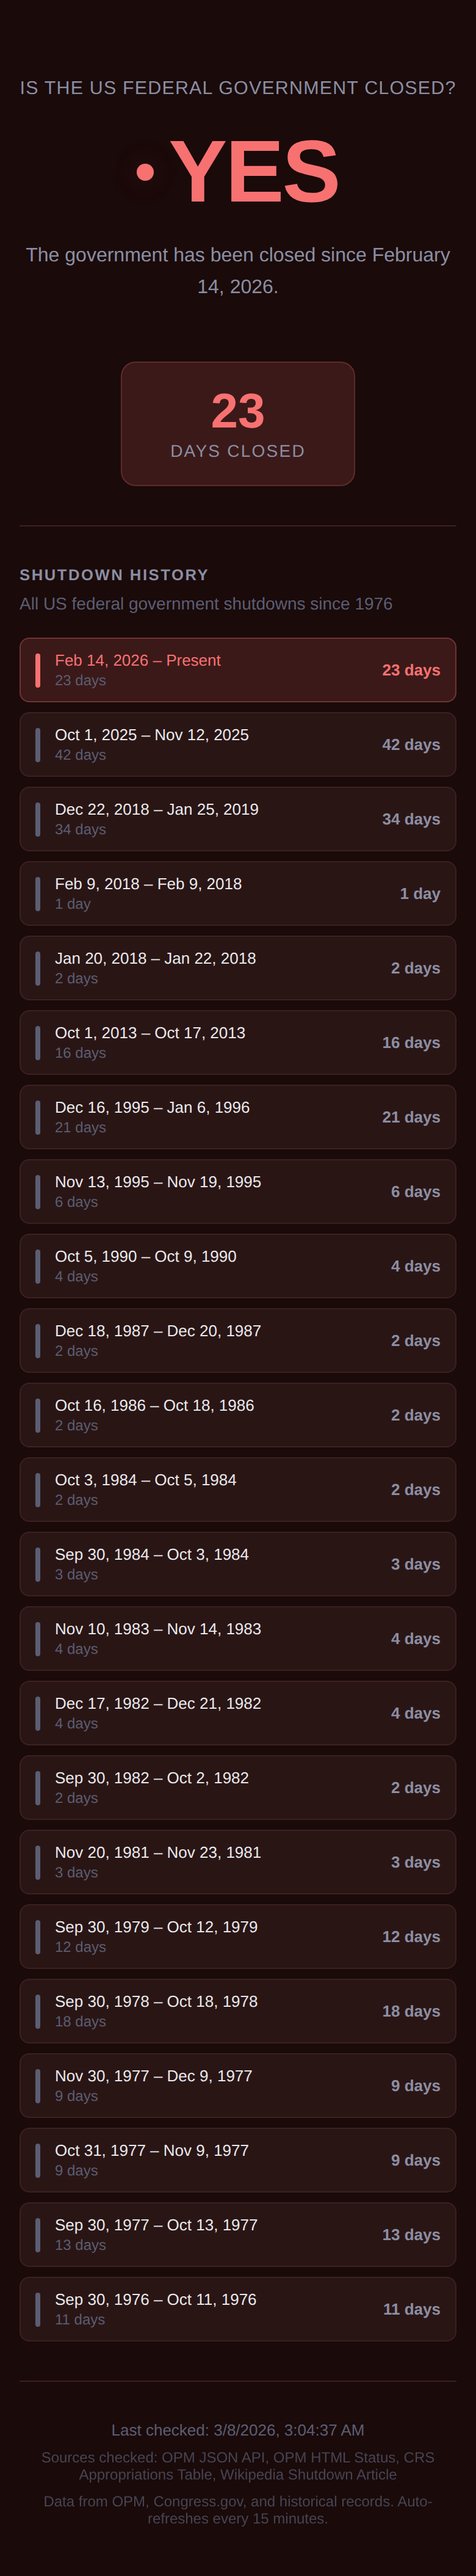
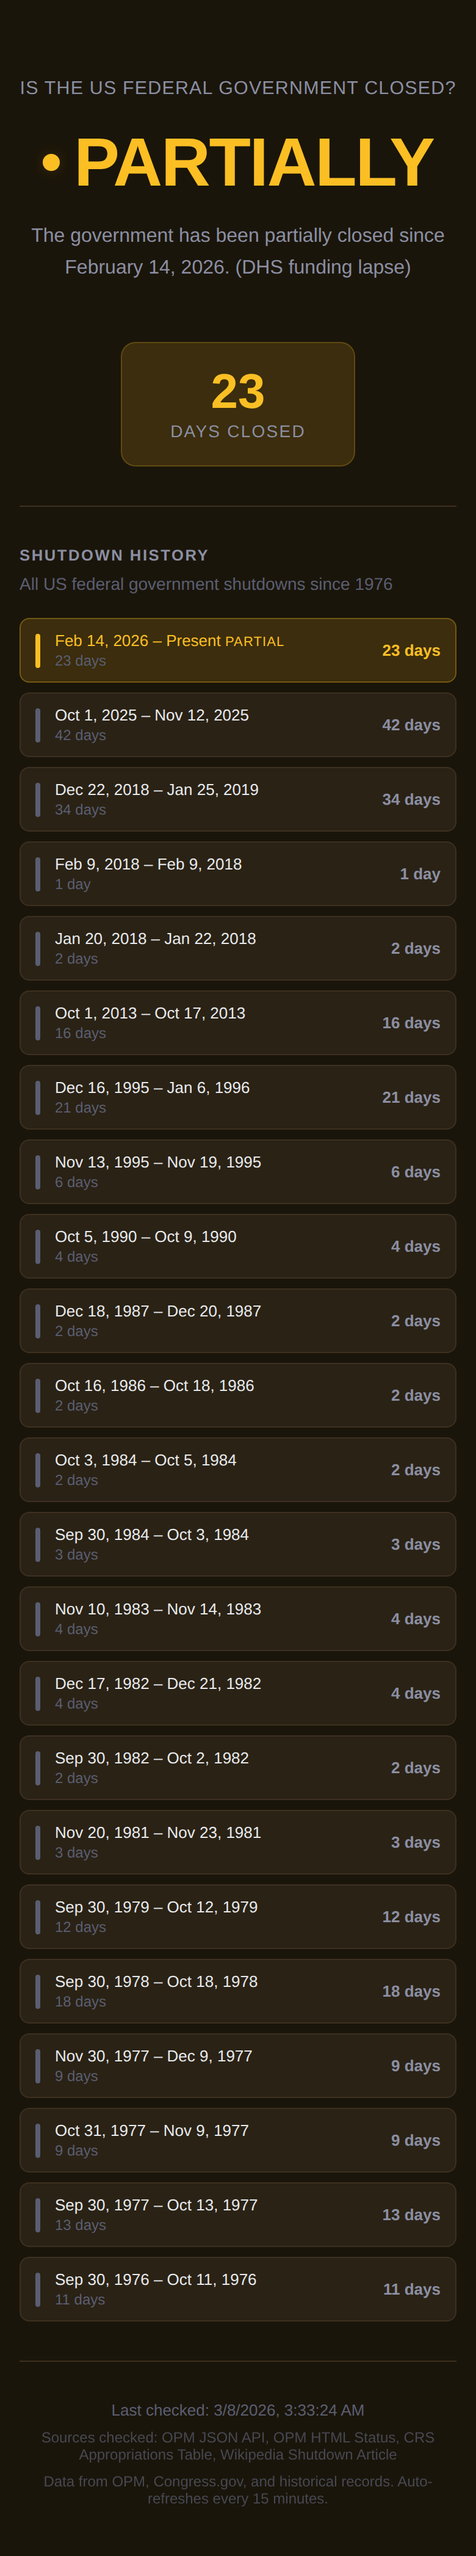
Add partial government shutdown display with amber theme
Introduce a third visual state for partial shutdowns: "Partially"
in amber, alongside the existing "Yes" (red) and "No" (green).

- Add type/detail fields to shutdown data model
- Add amber CSS palette, body.partial-shutdown theme, and responsive sizing
- Add type detection to CRS, Wikipedia, and OPM scrapers
- Propagate type through API response with full > partial precedence
- Update frontend to render partial state with amber dot, counter, and timeline
- Timeline entries show "PARTIAL" label for partial shutdowns

https://claude.ai/code/session_0172i3znrXNV1RgsEQVhjfL9

diff --git a/public/style.css b/public/style.css
@@ -17,6 +17,9 @@
   --red: #f87171;
   --red-glow: rgba(248, 113, 113, 0.15);
   --red-deep: #7f1d1d;
+  --amber: #fbbf24;
+  --amber-glow: rgba(251, 191, 36, 0.15);
+  --amber-deep: #78350f;
   --border: #2a2d3a;
   --radius: 12px;
   --radius-sm: 8px;
@@ -36,6 +39,14 @@ body.shutdown {
   --bg-card: #2a1515;
   --bg-card-hover: #351c1c;
   --border: #3d2020;
+  background: var(--bg);
+}
+
+body.partial-shutdown {
+  --bg: #1a150a;
+  --bg-card: #2a2215;
+  --bg-card-hover: #35291c;
+  --border: #3d3020;
   background: var(--bg);
 }
 
@@ -90,6 +101,12 @@ body.shutdown {
   animation: pulse-red 1.5s ease-in-out infinite;
 }
 
+.status-dot.partial {
+  background: var(--amber);
+  box-shadow: 0 0 12px var(--amber-glow), 0 0 24px var(--amber-glow);
+  animation: pulse-amber 2s ease-in-out infinite;
+}
+
 @keyframes pulse-green {
   0%, 100% { box-shadow: 0 0 12px var(--green-glow); }
   50% { box-shadow: 0 0 20px var(--green-glow), 0 0 40px var(--green-glow); }
@@ -98,6 +115,11 @@ body.shutdown {
 @keyframes pulse-red {
   0%, 100% { box-shadow: 0 0 12px var(--red-glow); }
   50% { box-shadow: 0 0 24px var(--red-glow), 0 0 48px var(--red-glow); }
+}
+
+@keyframes pulse-amber {
+  0%, 100% { box-shadow: 0 0 12px var(--amber-glow); }
+  50% { box-shadow: 0 0 20px var(--amber-glow), 0 0 40px var(--amber-glow); }
 }
 
 .answer {
@@ -121,6 +143,11 @@ body.shutdown {
 
 .answer.no {
   color: var(--green);
+}
+
+.answer.partial {
+  color: var(--amber);
+  font-size: 5rem;
 }
 
 .detail {
@@ -161,6 +188,15 @@ body.shutdown {
   color: var(--text-muted);
   text-transform: uppercase;
   letter-spacing: 0.08em;
+}
+
+body.partial-shutdown .counter-card {
+  background: var(--amber-glow);
+  border-color: rgba(251, 191, 36, 0.2);
+}
+
+body.partial-shutdown .counter-number {
+  color: var(--amber);
 }
 
 /* === Section Shared === */
@@ -257,6 +293,31 @@ body.shutdown {
   color: var(--red);
 }
 
+.timeline-item.partial.ongoing {
+  border-color: rgba(251, 191, 36, 0.3);
+  background: var(--amber-glow);
+}
+
+.timeline-item.partial .timeline-bar {
+  background: var(--amber);
+}
+
+.timeline-item.partial.ongoing .timeline-range {
+  color: var(--amber);
+}
+
+.timeline-item.partial.ongoing .timeline-days {
+  color: var(--amber);
+}
+
+.timeline-type {
+  font-size: 0.6875rem;
+  color: var(--amber);
+  font-weight: 500;
+  text-transform: uppercase;
+  letter-spacing: 0.05em;
+}
+
 /* === Footer === */
 .footer {
   padding: 2rem 0 1rem;
@@ -316,6 +377,10 @@ body.shutdown {
     font-size: 4.5rem;
   }
 
+  .answer.partial {
+    font-size: 3.5rem;
+  }
+
   .answer-row {
     gap: 0.75rem;
   }
@@ -333,10 +398,6 @@ body.shutdown {
     font-size: 2.5rem;
   }
 
-  .sources-grid {
-    grid-template-columns: 1fr;
-  }
-
   .timeline-item {
     padding: 0.625rem 0.75rem;
   }
@@ -349,6 +410,10 @@ body.shutdown {
 @media (max-width: 380px) {
   .answer {
     font-size: 3.5rem;
+  }
+
+  .answer.partial {
+    font-size: 2.5rem;
   }
 
   .question {

diff --git a/src/shutdowns.js b/src/shutdowns.js
@@ -1,7 +1,8 @@
 // Historical US federal government shutdowns
 // Source: Congressional Research Service reports
-// Each entry: { start: 'YYYY-MM-DD', end: 'YYYY-MM-DD' | null }
+// Each entry: { start: 'YYYY-MM-DD', end: 'YYYY-MM-DD' | null, type?: 'partial' | 'full' }
 // end = null means the shutdown is currently ongoing
+// type defaults to 'full' when omitted
 
 const SHUTDOWNS = [
   { start: '1976-09-30', end: '1976-10-11' },
@@ -26,7 +27,7 @@ const SHUTDOWNS = [
   { start: '2018-02-09', end: '2018-02-09' },
   { start: '2018-12-22', end: '2019-01-25' },
   { start: '2025-10-01', end: '2025-11-12' }, // 43-day shutdown, longest in modern history
-  { start: '2026-02-14', end: null },          // Partial shutdown (DHS funding lapse)
+  { start: '2026-02-14', end: null, type: 'partial', detail: 'DHS funding lapse' },
 ];
 
 function getShutdownStatus() {
@@ -38,10 +39,18 @@ function getShutdownStatus() {
   );
 
   if (ongoing) {
+    const type = ongoing.type || 'full';
+    const partial = type === 'partial';
+    const closedWord = partial ? 'partially closed' : 'closed';
+    const detail = ongoing.detail || null;
+    const detailSuffix = detail ? ` (${detail})` : '';
+
     return {
       isClosed: true,
+      type,
       since: ongoing.start,
-      message: `The government has been closed since ${formatDate(ongoing.start)}.`,
+      detail,
+      message: `The government has been ${closedWord} since ${formatDate(ongoing.start)}.${detailSuffix}`,
     };
   }
 
@@ -54,8 +63,9 @@ function getShutdownStatus() {
 
   return {
     isClosed: false,
+    type: null,
     lastClosure: lastShutdown
-      ? { start: lastShutdown.start, end: lastShutdown.end }
+      ? { start: lastShutdown.start, end: lastShutdown.end, type: lastShutdown.type || 'full' }
       : null,
     message: lastShutdown
       ? `The last government closure was ${formatDate(lastShutdown.start)} – ${formatDate(lastShutdown.end)}.`
@@ -74,10 +84,10 @@ function formatDate(dateStr) {
 }
 
 // Add a shutdown dynamically (e.g., from scraping)
-function addShutdown(start, end = null) {
+function addShutdown(start, end = null, type = 'full') {
   const exists = SHUTDOWNS.find((s) => s.start === start);
   if (!exists) {
-    SHUTDOWNS.push({ start, end });
+    SHUTDOWNS.push({ start, end, type });
     SHUTDOWNS.sort((a, b) => a.start.localeCompare(b.start));
   } else if (end && !exists.end) {
     exists.end = end;

diff --git a/public/app.js b/public/app.js
@@ -22,7 +22,7 @@ const SHUTDOWNS = [
   { start: '2018-02-09', end: '2018-02-09' },
   { start: '2018-12-22', end: '2019-01-25' },
   { start: '2025-10-01', end: '2025-11-12' },
-  { start: '2026-02-14', end: null },
+  { start: '2026-02-14', end: null, type: 'partial' },
 ];
 
 // DOM refs
@@ -58,13 +58,23 @@ async function fetchStatus() {
 
     answerEl.classList.remove('loading');
 
-    if (data.isClosed) {
+    if (data.isClosed && data.type === 'partial') {
+      answerEl.textContent = 'Partially';
+      answerEl.className = 'answer partial fade-in';
+      dotEl.className = 'status-dot partial';
+      document.body.className = 'partial-shutdown';
+
+      if (data.since) {
+        const days = daysBetween(data.since, null);
+        counterNumber.textContent = days;
+        counterSection.classList.remove('hidden');
+      }
+    } else if (data.isClosed) {
       answerEl.textContent = 'Yes';
       answerEl.className = 'answer yes fade-in';
       dotEl.className = 'status-dot closed';
       document.body.className = 'shutdown';
 
-      // Show day counter
       if (data.since) {
         const days = daysBetween(data.since, null);
         counterNumber.textContent = days;
@@ -119,15 +129,18 @@ function renderTimeline() {
 
   timelineEl.innerHTML = sorted.map(s => {
     const ongoing = s.end === null;
+    const isPartial = s.type === 'partial';
     const days = daysBetween(s.start, s.end);
     const daysLabel = days === 1 ? '1 day' : `${days} days`;
     const range = `${formatDate(s.start)} – ${ongoing ? 'Present' : formatDate(s.end)}`;
+    const classes = ['timeline-item', ongoing ? 'ongoing' : '', isPartial ? 'partial' : ''].filter(Boolean).join(' ');
+    const typeLabel = isPartial ? ' <span class="timeline-type">partial</span>' : '';
 
     return `
-      <div class="timeline-item${ongoing ? ' ongoing' : ''}">
+      <div class="${classes}">
         <div class="timeline-bar"></div>
         <div class="timeline-dates">
-          <div class="timeline-range">${range}</div>
+          <div class="timeline-range">${range}${typeLabel}</div>
           <div class="timeline-duration">${daysLabel}</div>
         </div>
         <span class="timeline-days">${daysLabel}</span>

diff --git a/src/scraper.js b/src/scraper.js
@@ -58,8 +58,11 @@ async function checkOPMJson(data) {
     textFields.includes(kw)
   );
 
+  const isPartial = textFields.includes('partial');
+
   return {
     closed: hasShutdownSignal,
+    type: hasShutdownSignal ? (isPartial ? 'partial' : 'full') : undefined,
     source: 'OPM.gov (JSON API)',
     detail: json.StatusSummary || json.ShortStatusMessage || null,
   };
@@ -83,8 +86,10 @@ async function checkOPMHtml(html) {
   );
   const hasOpenSignal = openKeywords.some((kw) => statusText.includes(kw));
 
+  const isPartial = statusText.includes('partial');
+
   if (hasShutdownSignal && !hasOpenSignal) {
-    return { closed: true, source: 'OPM.gov' };
+    return { closed: true, type: isPartial ? 'partial' : 'full', source: 'OPM.gov' };
   }
   return { closed: false, source: 'OPM.gov' };
 }
@@ -129,8 +134,13 @@ async function checkCRSTable(html) {
     }
   });
 
+  // Count total bills to determine if shutdown is partial or full
+  const totalBills = $('table tr').filter((_, row) => $(row).find('td').length > 0).length;
+  const isPartial = unfundedBills.length > 0 && unfundedBills.length < totalBills;
+
   return {
     closed: hasShutdownLanguage,
+    type: hasShutdownLanguage ? (isPartial ? 'partial' : 'full') : undefined,
     source: 'Congress.gov (CRS)',
     detail:
       unfundedBills.length > 0
@@ -172,9 +182,11 @@ async function scrapeWikipedia() {
       ];
 
       const isOngoing = ongoingSignals.some((kw) => text.includes(kw));
+      const isPartial = text.includes('partial shutdown');
 
       return {
         closed: isOngoing,
+        type: isOngoing ? (isPartial ? 'partial' : 'full') : undefined,
         source: 'Wikipedia',
         name: 'Wikipedia Shutdown Article',
         detail: isOngoing ? 'Wikipedia indicates an ongoing shutdown' : null,

diff --git a/server.js b/server.js
@@ -33,8 +33,14 @@ app.get('/api/status', async (req, res) => {
     const closedSignals = scrapeCache.data.filter((r) => r.closed === true);
     const errorSignals = scrapeCache.data.filter((r) => r.error);
     if (closedSignals.length > 0) {
+      // If any source says 'full', treat as full; otherwise 'partial'
+      const hasFullSignal = closedSignals.some((s) => s.type === 'full');
+      const hasPartialSignal = closedSignals.some((s) => s.type === 'partial');
+      const liveType = hasFullSignal ? 'full' : hasPartialSignal ? 'partial' : undefined;
+
       liveSignal = {
         closed: true,
+        type: liveType,
         sources: closedSignals.map((s) => ({
           name: s.source,
           detail: s.detail || null,
